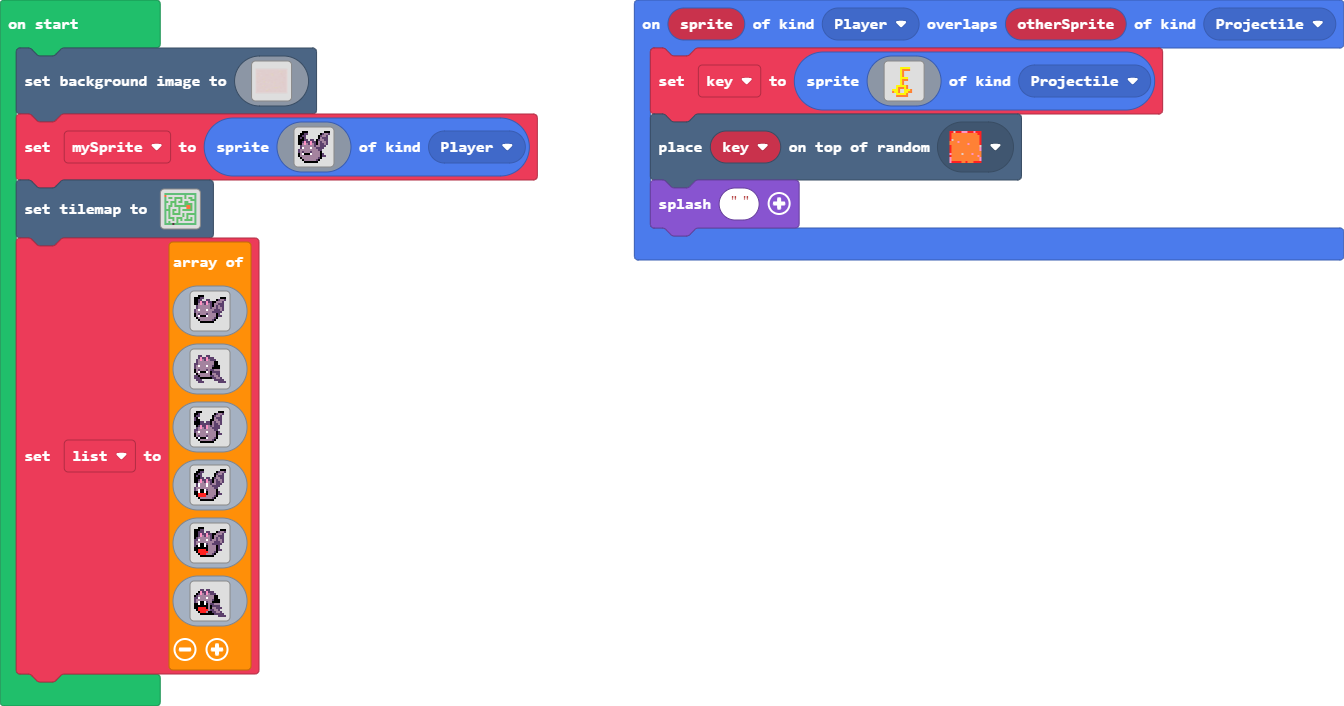
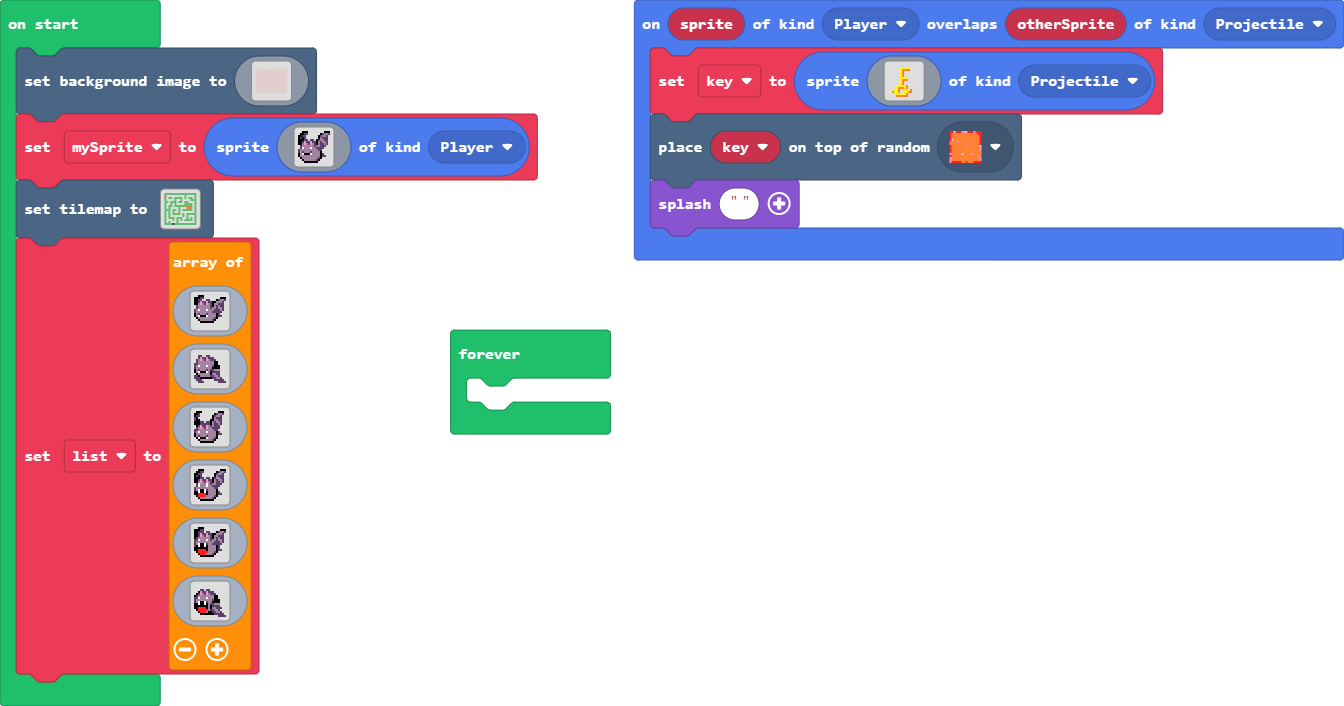
Update main.blocks, main.ts

Changed region(s): [[0.3125, 0.4674, 0.4688, 0.6232]]

diff --git a/main.ts b/main.ts
@@ -272,3 +272,6 @@ img`
     . . . . . . . . . . . . c c c c 
     `
 ]
+forever(function () {
+	
+})
